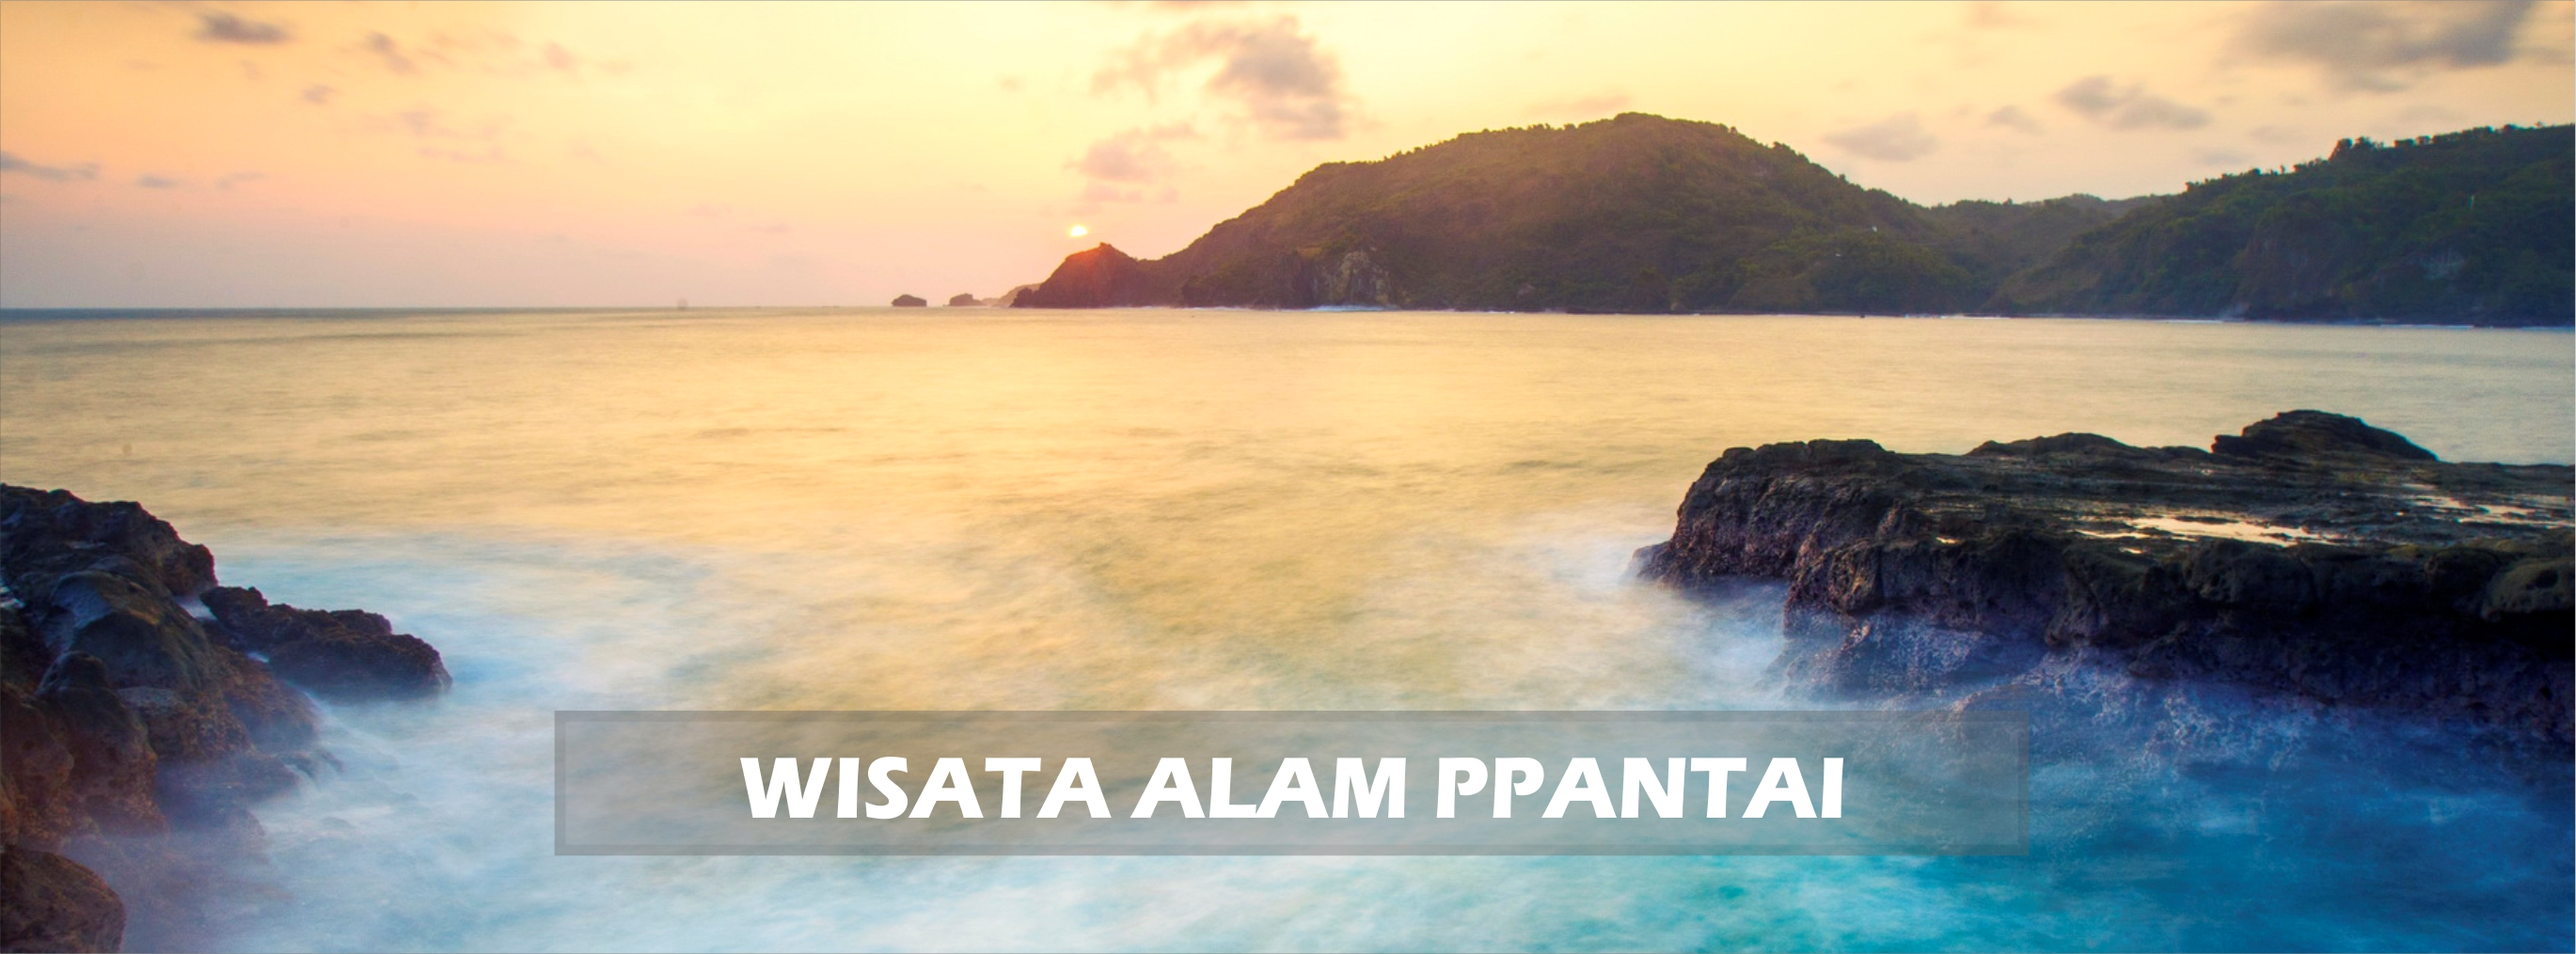
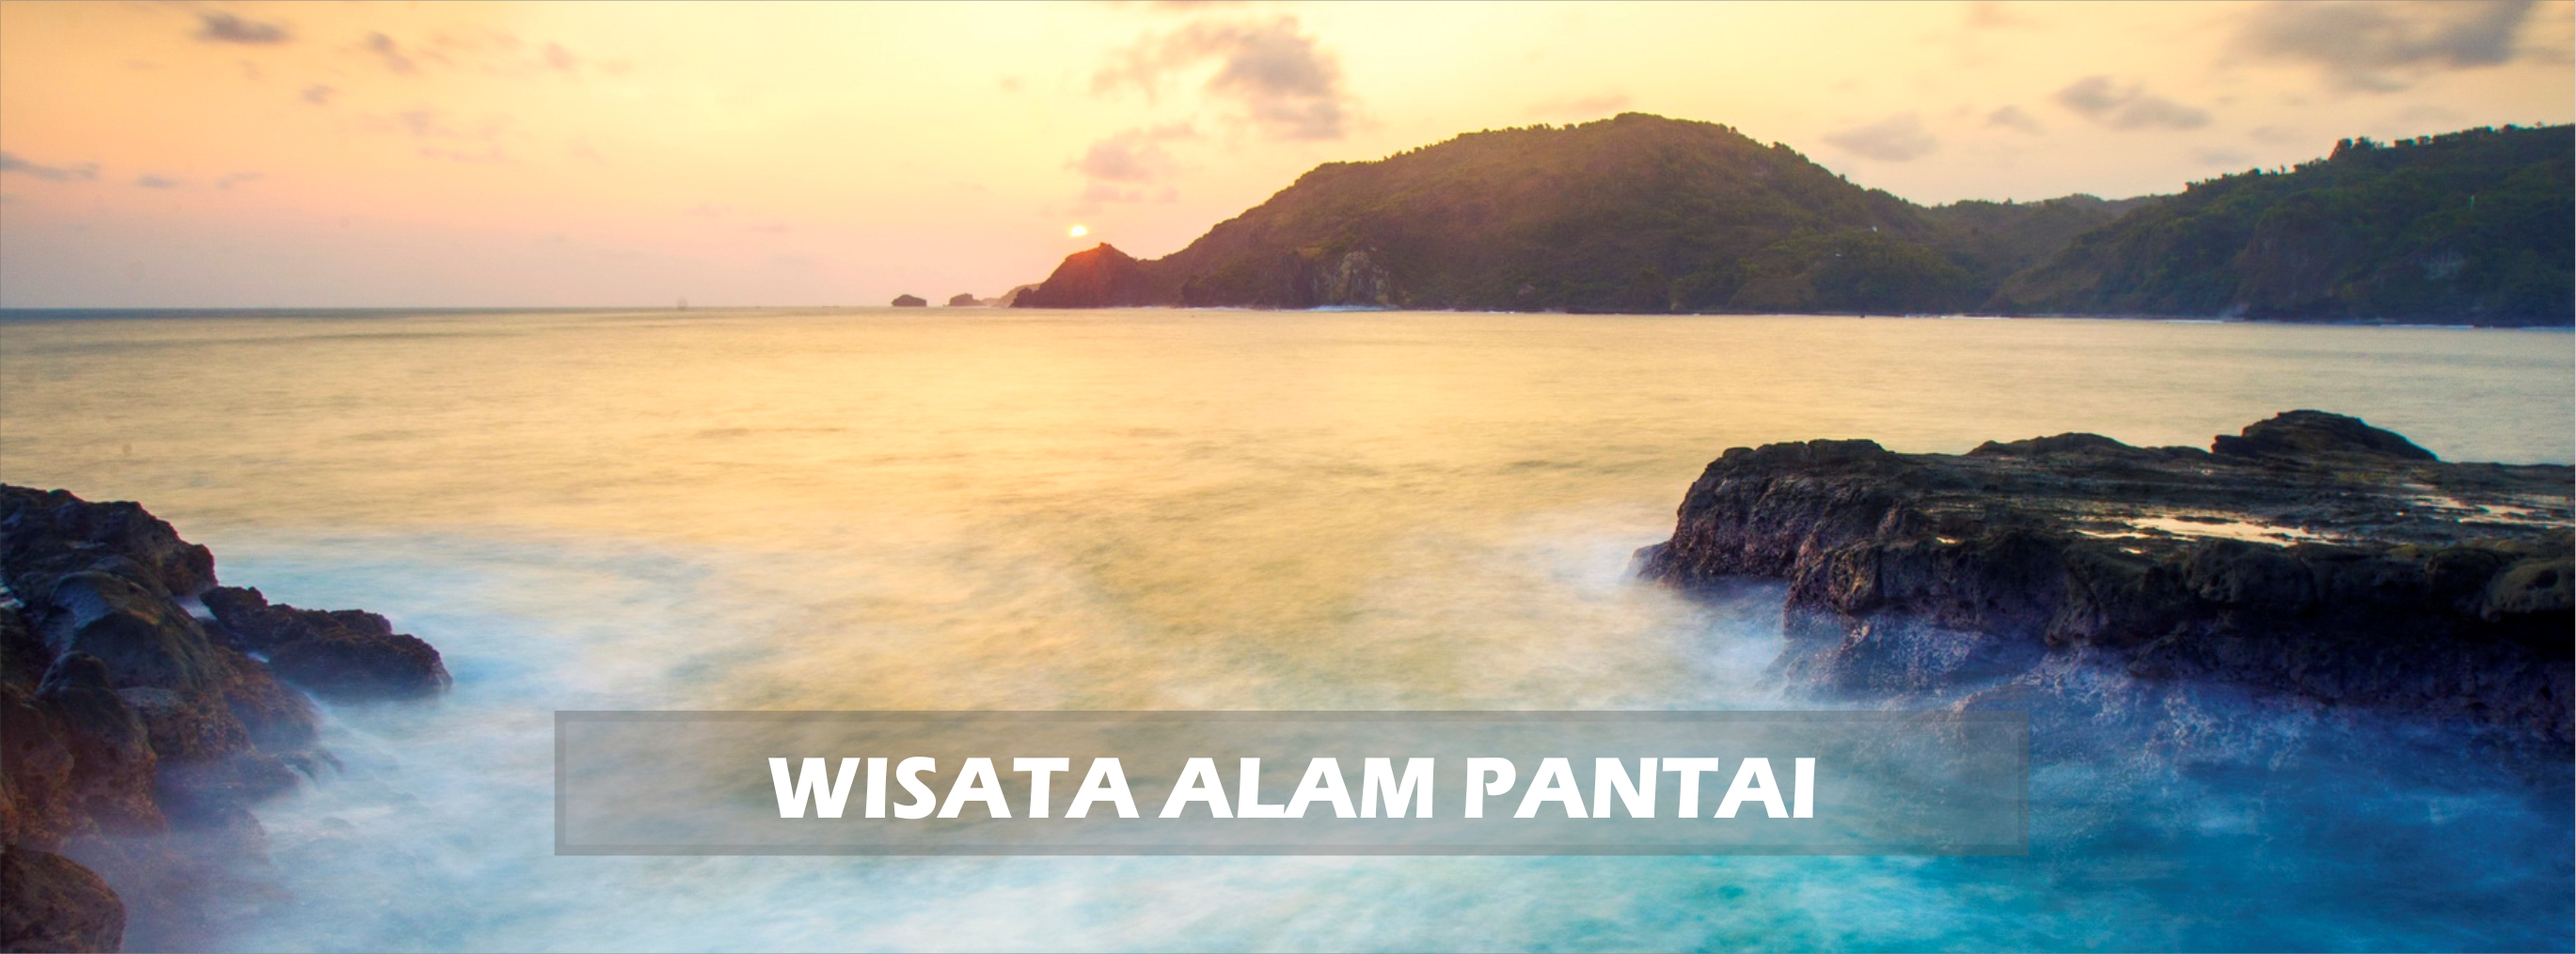
update rekomendasi view terbaru

Changed region(s): [[0.2793, 0.7941, 0.7138, 0.8552]]

diff --git a/resources/views/rekomendasi2.blade.php b/resources/views/rekomendasi2.blade.php
@@ -18,70 +18,73 @@
   <link href="../assets/css/material-kit.css?v=2.0.6" rel="stylesheet" />
   <link href="../assets/css/bootstrap.min.css" rel="stylesheet" />
   <link href="../assets/css/now-ui-kit.css?v=1.3.0" rel="stylesheet" />
-<style>
-  .slidecontainer {
-  width: 100%; /* Width of the outside container */
-}
-
-/* The slider itself */
-.slider {
-  -webkit-appearance: none;
-  width: 100%;
-  height: 15px;
-  border-radius: 5px;  
-  background: #d3d3d3;
-  outline: none;
-  opacity: 0.7;
-  -webkit-transition: .2s;
-  transition: opacity .2s;
-}
-
-.slider::-webkit-slider-thumb {
-  -webkit-appearance: none;
-  appearance: none;
-  width: 25px;
-  height: 25px;
-  border-radius: 50%; 
-  background: #4CAF50;
-  cursor: pointer;
-}
-
-.slider::-moz-range-thumb {
-  width: 25px;
-  height: 25px;
-  border-radius: 50%;
-  background: #4CAF50;
-  cursor: pointer;
-}
-.mycustom-jumbotron {
-  padding-top: 18%;
-    padding-bottom: 18%;
-    background: url('../assets/img/sungai.jpg') ; 
-    -webkit-background-size: 100% 100%;
-    -moz-background-size: 100% 100%;
-    -o-background-size: 100% 100%;
-    background-size: cover;
-}
-</style>
+  <style>
+    .slidecontainer {
+    width: 100%; /* Width of the outside container */
+  }
+  
+  /* The slider itself */
+  .slider {
+    -webkit-appearance: none;
+    width: 100%;
+    height: 15px;
+    border-radius: 5px;  
+    background: #ffffff;
+    outline: none;
+    opacity: 0.7;
+    -webkit-transition: .2s;
+    transition: opacity .2s;
+  }
+  
+  .slider::-webkit-slider-thumb {
+    -webkit-appearance: none;
+    appearance: none;
+    width: 25px;
+    height: 25px;
+    border-radius: 50%; 
+    background: #4CAF50;
+    cursor: pointer;
+  }
+  
+  .slider::-moz-range-thumb {
+    width: 25px;
+    height: 25px;
+    border-radius: 50%;
+    background: #4CAF50;
+    cursor: pointer;
+  }
+  .mycustom-jumbotron {
+    
+    
+      padding-top: 18%;
+      padding-bottom: 18%;
+      background: url('../assets/img/sungai.jpg') ; 
+      -webkit-background-size: 100% 100%;
+      -moz-background-size: 100% 100%;
+      -o-background-size: 100% 100%;
+      background-size: cover;
+  }
+  </style>
 
   @endsection
 
 
-@section('content')
-<div class="page-body " data-parallax="true" style="background: linear-gradient( rgba(0, 0, 0, 0.3), rgba(0, 0, 0, 0.0) ), url('../assets/img/landingpage.png')">
-  <div class="row">
-      <div class="col-md-2"> </div>
-      <div class="col-md-8 mb-0 mt-3 text-center">
-        <h1 class="title" style="color: white"><strong> Tell Us About You </strong></h1>
+  @section('content')
+  <div class="page-body " data-parallax="true" style="background: linear-gradient( rgba(0, 0, 0, 0.3), rgba(0, 0, 0, 0.0) ), url('../assets/img/landingpage.png')">
+    <div class="container">
+      <div class="row">
+        <div class="col-md-2"> </div>
+        <div class="col-md-8 mb-0 mt-3 text-center">
+          <h1 class="title" style="color: white"><strong> Tell Us About You </strong></h1>
+        </div>
+        <div class="col-md-2 " >
+          <a href="/home">
+          <button href type="submit" class="btn btn-default btn-large " style="position:absolute; bottom:25px" >Skip Recommendations</button>
+          </a>
+        </div>
       </div>
-      <div class="col-md-2 " >
-        <a href="/home">
-        <button href type="submit" class="btn btn-default btn-large " style="position:absolute; bottom:25px" >Skip Recommendations</button>
-        </a>
+      <div class="jumbotron mycustom-jumbotron text-center">  
       </div>
-    </div>
-    <div class="jumbotron mycustom-jumbotron text-center">
-    </div>
     
     <div class="row mt-4" id="row1">
       <div class="col-md-4 text-right">

diff --git a/resources/views/rekomendasi1.blade.php b/resources/views/rekomendasi1.blade.php
@@ -18,51 +18,53 @@
   <link href="../assets/css/material-kit.css?v=2.0.6" rel="stylesheet" />
   <link href="../assets/css/bootstrap.min.css" rel="stylesheet" />
   <link href="../assets/css/now-ui-kit.css?v=1.3.0" rel="stylesheet" />
-<style>
-  .slidecontainer {
-  width: 100%; /* Width of the outside container */
-}
-
-/* The slider itself */
-.slider {
-  -webkit-appearance: none;
-  width: 100%;
-  height: 15px;
-  border-radius: 5px;  
-  background: #ffffff;
-  outline: none;
-  opacity: 0.7;
-  -webkit-transition: .2s;
-  transition: opacity .2s;
-}
-
-.slider::-webkit-slider-thumb {
-  -webkit-appearance: none;
-  appearance: none;
-  width: 25px;
-  height: 25px;
-  border-radius: 50%; 
-  background: #4CAF50;
-  cursor: pointer;
-}
-
-.slider::-moz-range-thumb {
-  width: 25px;
-  height: 25px;
-  border-radius: 50%;
-  background: #4CAF50;
-  cursor: pointer;
-}
-.mycustom-jumbotron {
-  padding-top: 18%;
-    padding-bottom: 18%;
-    background: url('../assets/img/bangunan.jpg') ; 
-    -webkit-background-size: 100% 100%;
-    -moz-background-size: 100% 100%;
-    -o-background-size: 100% 100%;
-    background-size: cover;
-}
-</style>
+  <style>
+    .slidecontainer {
+    width: 100%; /* Width of the outside container */
+  }
+  
+  /* The slider itself */
+  .slider {
+    -webkit-appearance: none;
+    width: 100%;
+    height: 15px;
+    border-radius: 5px;  
+    background: #ffffff;
+    outline: none;
+    opacity: 0.7;
+    -webkit-transition: .2s;
+    transition: opacity .2s;
+  }
+  
+  .slider::-webkit-slider-thumb {
+    -webkit-appearance: none;
+    appearance: none;
+    width: 25px;
+    height: 25px;
+    border-radius: 50%; 
+    background: #4CAF50;
+    cursor: pointer;
+  }
+  
+  .slider::-moz-range-thumb {
+    width: 25px;
+    height: 25px;
+    border-radius: 50%;
+    background: #4CAF50;
+    cursor: pointer;
+  }
+  .mycustom-jumbotron {
+    
+    
+      padding-top: 18%;
+      padding-bottom: 18%;
+      background: url('../assets/img/bangunan.jpg') ; 
+      -webkit-background-size: 100% 100%;
+      -moz-background-size: 100% 100%;
+      -o-background-size: 100% 100%;
+      background-size: cover;
+  }
+  </style>
 
   @endsection
 
@@ -81,7 +83,7 @@
         </a>
       </div>
     </div>
-    <div class="jumbotron mycustom-jumbotron text-center">
+    <div class="jumbotron mycustom-jumbotron text-center">  
     </div>
     
     <div class="row mt-4" id="row1">

diff --git a/resources/views/rekomendasi3.blade.php b/resources/views/rekomendasi3.blade.php
@@ -18,51 +18,53 @@
   <link href="../assets/css/material-kit.css?v=2.0.6" rel="stylesheet" />
   <link href="../assets/css/bootstrap.min.css" rel="stylesheet" />
   <link href="../assets/css/now-ui-kit.css?v=1.3.0" rel="stylesheet" />
-<style>
-  .slidecontainer {
-  width: 100%; /* Width of the outside container */
-}
-
-/* The slider itself */
-.slider {
-  -webkit-appearance: none;
-  width: 100%;
-  height: 15px;
-  border-radius: 5px;  
-  background: #d3d3d3;
-  outline: none;
-  opacity: 0.7;
-  -webkit-transition: .2s;
-  transition: opacity .2s;
-}
-
-.slider::-webkit-slider-thumb {
-  -webkit-appearance: none;
-  appearance: none;
-  width: 25px;
-  height: 25px;
-  border-radius: 50%; 
-  background: #4CAF50;
-  cursor: pointer;
-}
-
-.slider::-moz-range-thumb {
-  width: 25px;
-  height: 25px;
-  border-radius: 50%;
-  background: #4CAF50;
-  cursor: pointer;
-}
-.mycustom-jumbotron {
-  padding-top: 18%;
-    padding-bottom: 18%;
-    background: url('../assets/img/pantai.jpg') ; 
-    -webkit-background-size: 100% 100%;
-    -moz-background-size: 100% 100%;
-    -o-background-size: 100% 100%;
-    background-size: cover;
-}
-</style>
+  <style>
+    .slidecontainer {
+    width: 100%; /* Width of the outside container */
+  }
+  
+  /* The slider itself */
+  .slider {
+    -webkit-appearance: none;
+    width: 100%;
+    height: 15px;
+    border-radius: 5px;  
+    background: #ffffff;
+    outline: none;
+    opacity: 0.7;
+    -webkit-transition: .2s;
+    transition: opacity .2s;
+  }
+  
+  .slider::-webkit-slider-thumb {
+    -webkit-appearance: none;
+    appearance: none;
+    width: 25px;
+    height: 25px;
+    border-radius: 50%; 
+    background: #4CAF50;
+    cursor: pointer;
+  }
+  
+  .slider::-moz-range-thumb {
+    width: 25px;
+    height: 25px;
+    border-radius: 50%;
+    background: #4CAF50;
+    cursor: pointer;
+  }
+  .mycustom-jumbotron {
+    
+    
+      padding-top: 18%;
+      padding-bottom: 18%;
+      background: url('../assets/img/pantai.jpg') ; 
+      -webkit-background-size: 100% 100%;
+      -moz-background-size: 100% 100%;
+      -o-background-size: 100% 100%;
+      background-size: cover;
+  }
+  </style>
 
   @endsection
 
@@ -81,7 +83,7 @@
         </a>
       </div>
     </div>
-    <div class="jumbotron mycustom-jumbotron text-center">
+    <div class="jumbotron mycustom-jumbotron text-center">  
     </div>
     
     <div class="row mt-4" id="row1">
